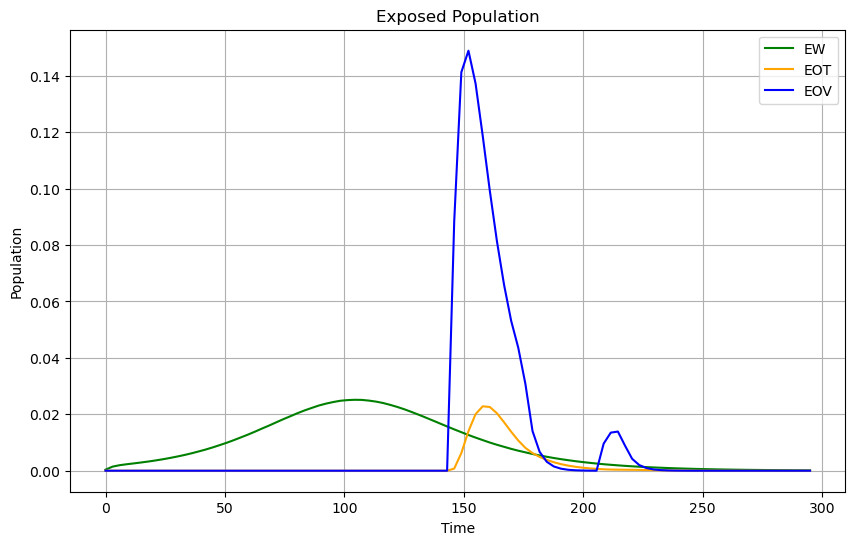
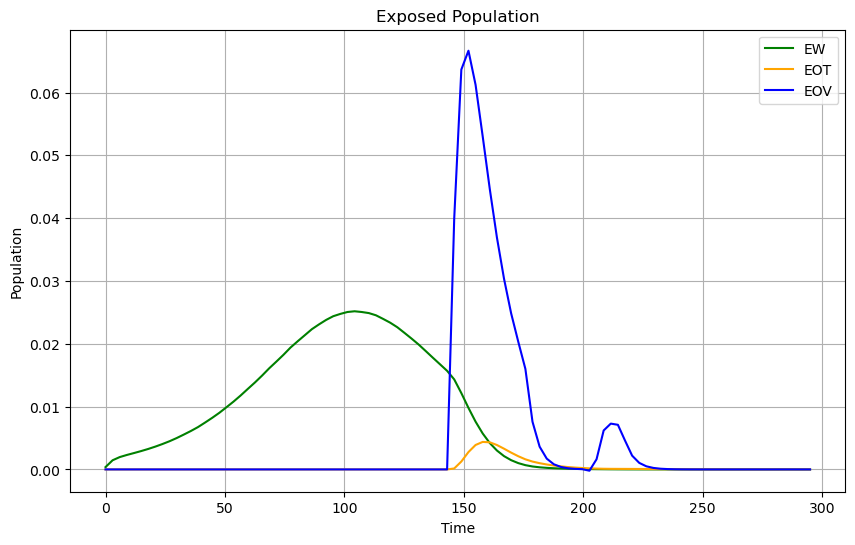
test3.py is the combined model

diff --git a/test3.py b/test3.py
@@ -1,0 +1,137 @@
+import numpy as np
+from scipy.integrate import solve_ivp
+import matplotlib.pyplot as plt
+import math
+
+
+
+# Define the differential equations
+def equations(t, y, beta, rho, sigma, gamma):
+    S, IOV, IOT, IW, EOV, EOT, EW, ROV, ROT, RW = y
+
+    # Define vR based on the time t
+    if 144 <= t <= 175 or 206 <= t <= 216:
+        vR = (0.8) * (0.074)
+    else:
+        vR = 0
+
+    S_dot = -(beta * S * rho) * (IOV + IOT) - (beta * S * IW) - (vR * S)
+    IOV_dot = sigma * EOV - gamma * IOV
+    IOT_dot = sigma * EOT - gamma * (IOT)
+    IW_dot = sigma * EW - gamma * IW
+    EOV_dot = (vR * S) - (sigma * EOV)
+    EOT_dot = (rho * beta * S) * (IOV + IOT) - (sigma * EOT)
+    EW_dot = (beta * S * IW) - (sigma * EW)
+    ROV_dot = gamma * IOV
+    ROT_dot = gamma * IOT
+    RW_dot = gamma * IW
+
+    return [S_dot, IOV_dot, IOT_dot, IW_dot, EOV_dot, EOT_dot, EW_dot, ROV_dot, ROT_dot, RW_dot]
+
+
+# Define initial conditions
+IOV_0 = 0
+IOT_0 = 0
+ROV_0 = 0
+ROT_0 = 0
+RW_0 = 0
+alpha_star = 0.25
+gamma_star = 0.093
+IW_0 = 0.00434
+IW_00 = 0.001
+EW_0 = (gamma_star / alpha_star) * IW_00
+S0 = 1 - IW_00 - EW_0
+EOV_0 = 0
+EOT_0 = 0
+
+# Initial conditions
+
+y0 = [S0, IOV_0, IOT_0, IW_0, EOV_0, EOT_0, EW_0, ROV_0, ROT_0, RW_0]  
+
+# Define parameter values
+beta = 0.151
+rho = 0.37
+sigma = 0.25
+gamma = 0.093
+sewage_scaling_o = 2.02 * (10**7)
+sewage_scaling_w = 1.07 * (10**7)
+
+# Define the time span
+t_span = [0, 295]
+
+# Solve the differential equations
+solution = solve_ivp(equations, t_span, y0, args=(beta, rho, sigma, gamma), dense_output=True)
+
+
+
+# Extract the solution
+t_values = np.linspace(0, 295, 100)
+y_values = solution.sol(t_values)
+
+
+
+# Extract the solution for S, I, E, and R
+S_values = y_values[0]
+IW_values = y_values[3]
+IOV_values = y_values[1]
+IOT_values = y_values[2]
+EOV_values = y_values[4]
+EOT_values = y_values[5]
+EW_values = y_values[6]
+ROV_values = y_values[7]
+ROT_values = y_values[8]
+RW_values = y_values[9]
+
+
+
+# Plotting and saving each variable separately
+
+# Plot S
+plt.figure(figsize=(10, 6))
+plt.plot(t_values, S_values, color='blue')
+plt.xlabel('Time')
+plt.ylabel('Population')
+plt.title('Susceptible Population')
+plt.grid(True)
+plt.savefig('S_plot.png', bbox_inches='tight')
+plt.close()
+
+# Plot IW, IOT, and IOV
+plt.figure(figsize=(10, 6))
+plt.plot(t_values, IW_values, color='green', label='IW')
+plt.plot(t_values, IOT_values, color='orange', label='IOT')
+plt.plot(t_values, IOV_values, color='blue', label='IOV')
+plt.xlabel('Time')
+plt.ylabel('Population')
+plt.title('Infected Population')
+plt.legend()
+plt.grid(True)
+plt.savefig('Infected_plot.png', bbox_inches='tight')
+plt.close()
+
+# Plot EW, EOT, and EOV
+plt.figure(figsize=(10, 6))
+plt.plot(t_values, EW_values, color='green', label='EW')
+plt.plot(t_values, EOT_values, color='orange', label='EOT')
+plt.plot(t_values, EOV_values, color='blue', label='EOV')
+plt.xlabel('Time')
+plt.ylabel('Population')
+plt.title('Exposed Population')
+plt.legend()
+plt.grid(True)
+plt.savefig('Exposed_plot.png', bbox_inches='tight')
+plt.close()
+
+# Plot RW, ROT, and ROV
+plt.figure(figsize=(10, 6))
+plt.plot(t_values, RW_values, color='green', label='RW')
+plt.plot(t_values, ROT_values, color='orange', label='ROT')
+plt.plot(t_values, ROV_values, color='blue', label='ROV')
+plt.xlabel('Time')
+plt.ylabel('Population')
+plt.title('Recovered Population')
+plt.legend()
+plt.grid(True)
+plt.savefig('Recovered_plot.png', bbox_inches='tight')
+plt.close()
+
